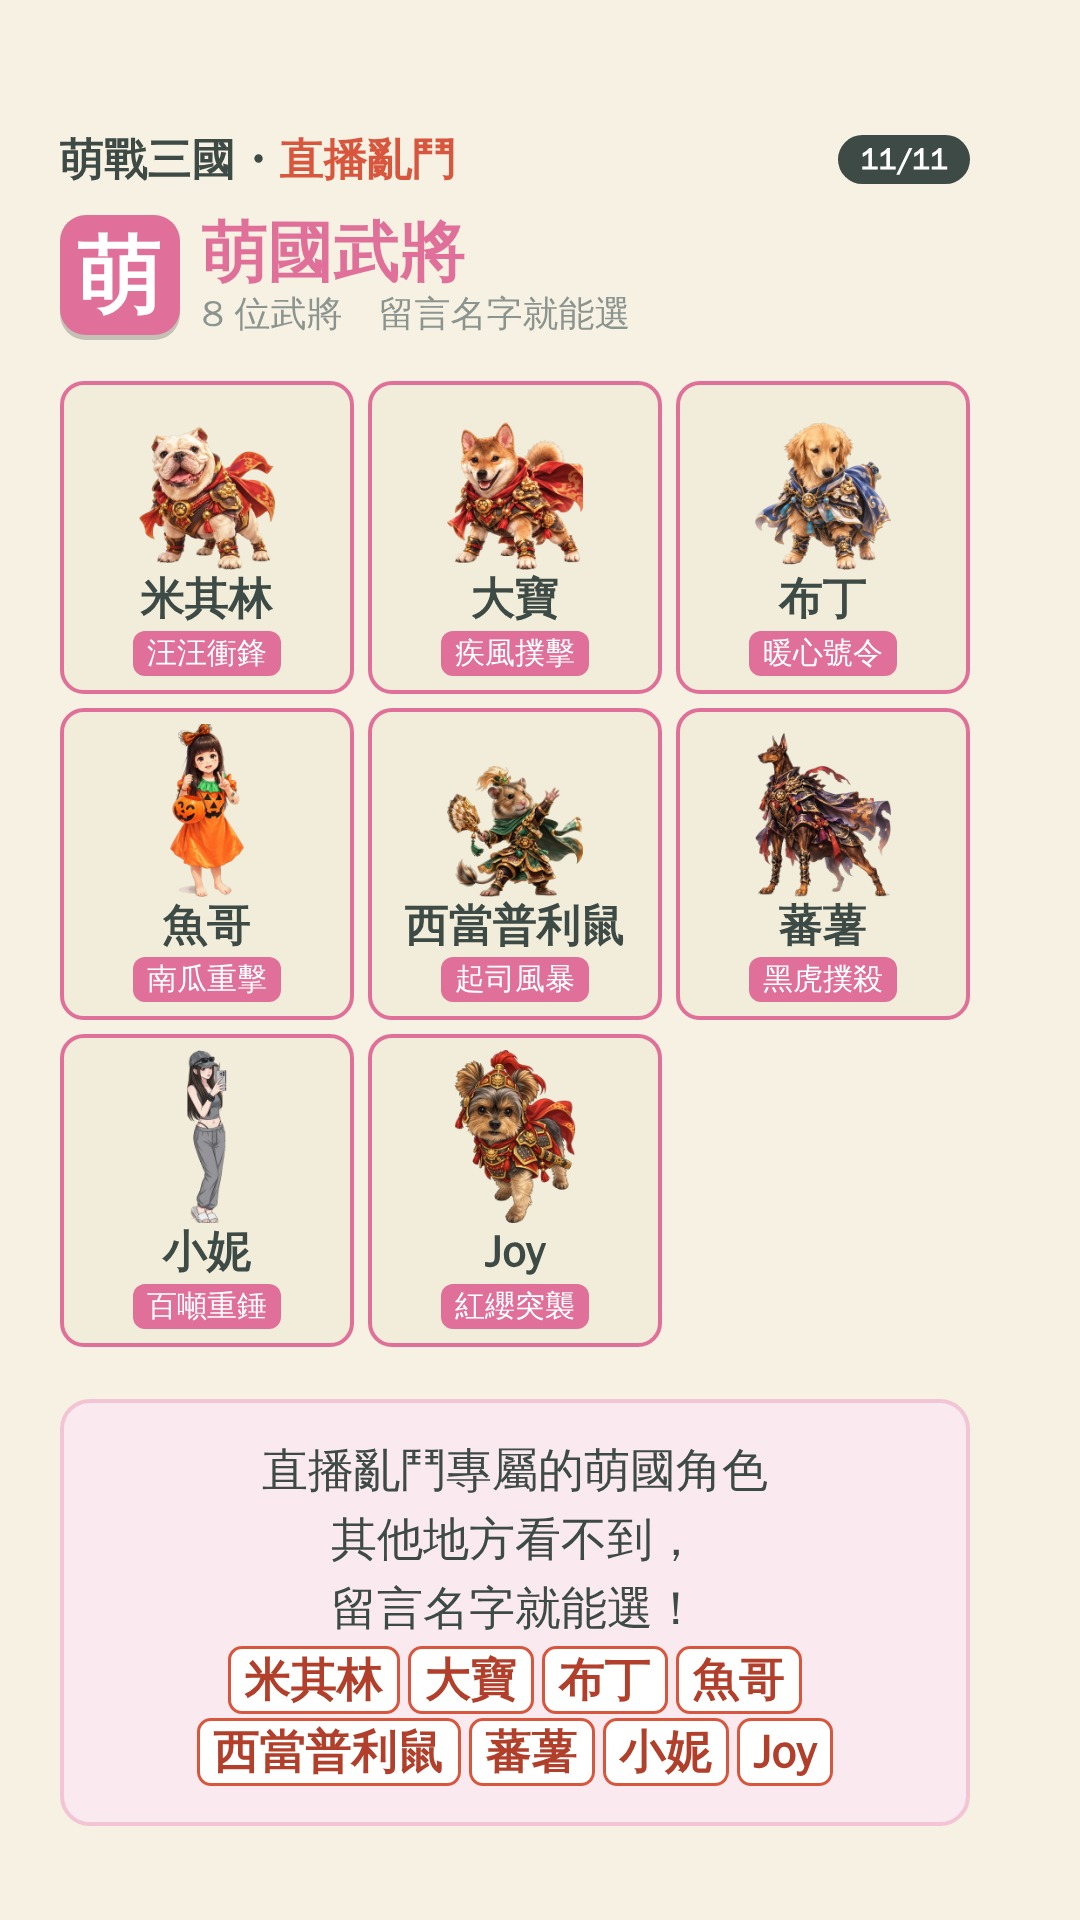
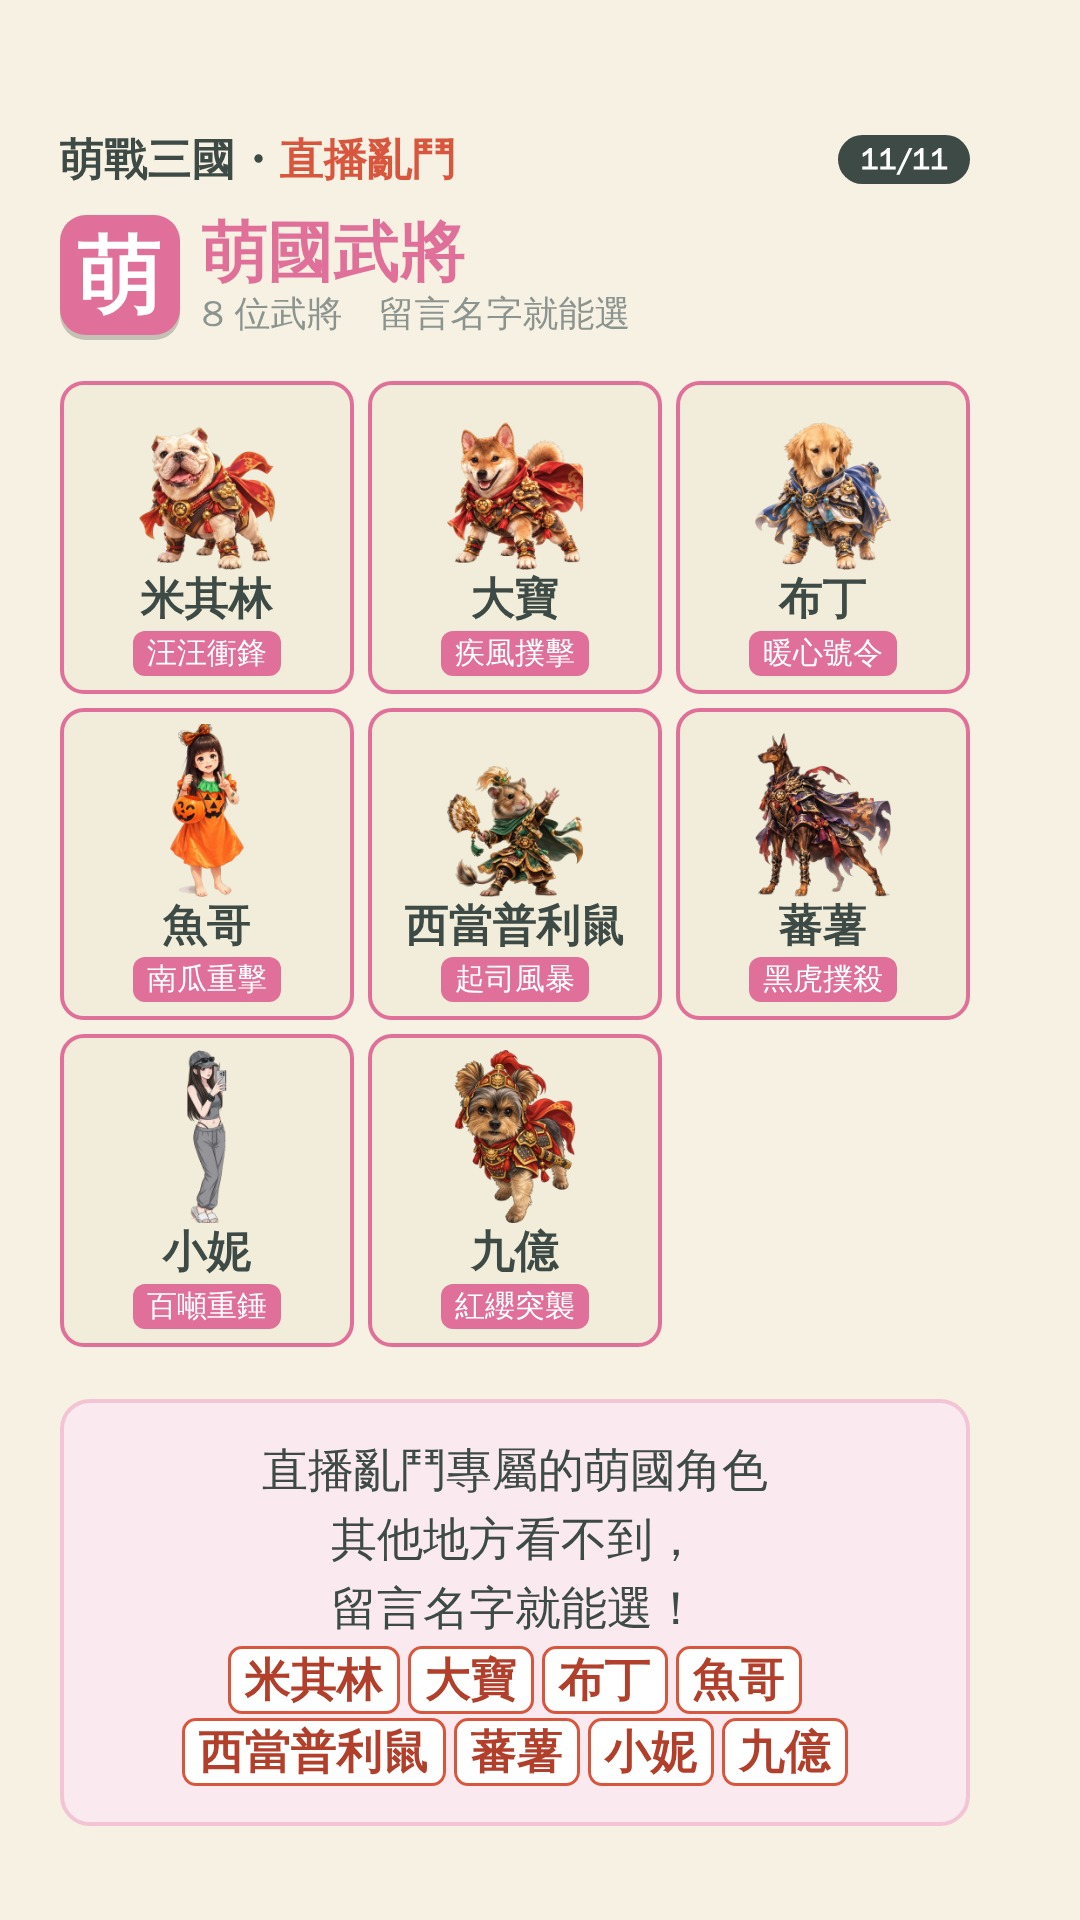
Joy 改名為九億（舊名 Joy 仍認）、重產名冊與玩法說明（版本 2026-11-15.38）
Claude-Session: https://claude.ai/code/session_01J1mi4tQsbQufTfnNbsrTar

Changed region(s): [[0.1528, 0.875, 0.7944, 0.9375], [0.4278, 0.625, 0.5194, 0.6875]]

diff --git a/data/extra-heroes.js b/data/extra-heroes.js
@@ -21,6 +21,6 @@ window.HEROES_DATA = window.HEROES_DATA.concat([
   { heroId: 'yam', displayName: '蕃薯', faction: 'Meng', troop: 'Vanguard', baseHp: 928, baseAtk: 52, baseArmor: 47, skillName: '黑虎撲殺', extra: true },
   // 小妮：萌國的長髮女孩猛將（灰色棒球帽＋墨鏡、灰色短背心與運動長褲、白拖鞋），武器是 100T 黑色大錘子。能力值取猛將中間檔（同米其林），技能「百噸重錘」，演出＝衝撞地裂。名字以外的設定（兵種、數值、技能名）是 Claude 先定的。
   { heroId: 'xiaoni', displayName: '小妮', faction: 'Meng', troop: 'Vanguard', baseHp: 928, baseAtk: 52, baseArmor: 47, skillName: '百噸重錘', extra: true },
-  // Joy：萌國的約克夏小狗遊俠（紅纓頭盔、金紅鎧甲、背著劍鞘）。能力值取遊俠平均（同大寶），技能「紅纓突襲」。名字以外的設定（兵種、數值、技能名）是 Claude 先定的。
-  { heroId: 'joy', displayName: 'Joy', faction: 'Meng', troop: 'Ranger', baseHp: 540, baseAtk: 72, baseArmor: 25, skillName: '紅纓突襲', extra: true },
+  // 九億（原名 Joy，2026-11-15 咖哩改名；heroId 仍是 joy）：萌國的約克夏小狗遊俠（紅纓頭盔、金紅鎧甲、背著劍鞘）。能力值取遊俠平均（同大寶），技能「紅纓突襲」。名字以外的設定（兵種、數值、技能名）是 Claude 先定的。
+  { heroId: 'joy', displayName: '九億', faction: 'Meng', troop: 'Ranger', baseHp: 540, baseAtk: 72, baseArmor: 25, skillName: '紅纓突襲', extra: true },
 ]);

diff --git a/js/config.js b/js/config.js
@@ -374,6 +374,7 @@ window.GAME_CONFIG = {
   // 觀眾留言這些字也算點名該武將。左邊是別名，右邊是武將英文 ID（照 data/heroes.js）。
   // 例如想讓簡體字「吕布」也有效： '吕布': 'lvbu'
   heroAliases: {
+    'Joy': 'joy',   // 九億的舊名字，觀眾打 Joy 也認
   },
 
   // ---------- 陣營 ----------

diff --git a/js/version.js b/js/version.js
@@ -1,3 +1,3 @@
 // 目前的版本號。每次有更新要上線，就跑 python3 tools/bump_version.py（會同時改這個檔和 version.json）。
 // 直播畫面會定時去讀 version.json，發現跟自己不一樣就自動更新（見 js/updater.js）。
-window.APP_VERSION = '2026-11-15.37';
+window.APP_VERSION = '2026-11-15.38';

diff --git a/CLAUDE.md b/CLAUDE.md
@@ -9,7 +9,7 @@
 
 ## 玩法規則（已定案）
 - 觀眾留言**武將名字**（例如「呂布」）→ 該武將帶著觀眾的名字上場。
-- 英文武將名（例如 Joy）**不分大小寫**：打 `joy`、`JOY` 都能上場、換角（2026-11-15 修正，原本只認 `Joy` 一種寫法）。留言進來先轉半形（`Ｊｏｙ`→`Joy`）並去掉零寬空白等看不見的字元再比對（`game.js` 的 `handleChat`）。
+- 英文武將名**不分大小寫**（例如舊名 `Joy`）：打 `joy`、`JOY` 都能上場、換角（2026-11-15 修正，原本只認 `Joy` 一種寫法）。留言進來先轉半形（`Ｊｏｙ`→`Joy`）並去掉零寬空白等看不見的字元再比對（`game.js` 的 `handleChat`）。
 - 觀眾**送禮** → 攻擊其他觀眾的武將。不同禮物對應：普攻／全場攻擊／技能／回血。
 - 留言「**@對方名字**」鎖定攻擊目標；留言「**解除鎖定**」恢復隨機。
   - 名字比對由嚴到寬（2026-11-13 咖哩反映「有時候沒辦法鎖定成功」後放寬，`js/game.js` 的 `findLockTarget`）：
@@ -167,7 +167,7 @@
   - 西當普利鼠（2026-11-14 咖哩第五隻）：寫實倉鼠穿綠金鎧甲、拿羽扇，`heroId: hamster`，謀士（技能演出＝法陣落雷），血 600／攻 68／防 28，技能「起司風暴」。名字以外的設定是 Claude 先定的。**第一版圖（橘棕色卡通老鼠）臉、耳朵、鼻子、米白嘴部、尾巴都是《湯姆貓與傑利鼠》的傑利鼠，違反「不可使用其他作品角色」，沒有用**；咖哩改成寫實倉鼠後才採用（來源由咖哩自行負責）。待機動畫＝吃起司蛋糕（`assets/heroes/hamster_cake.png`，Gemini 生成，**10 格**，每秒 4 格連播 2 輪）。**這張圖的格子排列是 3＋3＋4（不是整齊的 4x2）**，所以 `make_anim_sheet.py` 新增 `--row-counts 3,3,4`（每列各自平分寬度），這組用 `--faces right --row-counts 3,3,4 --match-height 301 --equalize area`（原圖面向右；`match-height` 是單張圖裡角色的高度，因為角色橫向很寬、單張圖被縮得比 396 矮，要先量）。**攻擊／技能＝換成大錘子跳起來往下重擊**（`hamster_attack.png`，8 格，第 6 格落地砸中；普攻 16 格/秒約 0.5 秒、技能 8 格/秒約 1 秒）。這張圖要跳到空中，所以 `make_anim_sheet.py` 新增手動指定選項：`--cx`（每格身體中心 x）、`--feet`（每格腳底 y）、`--lift`（跳離地面多少）、`--scale`（直接給縮放）、`--cut x:y0-y1`（兩格的尾巴／武器黏在一起時切一條縫）；連通塊改成歸到「同列身體中心最近」那格（揮出去的武器、白色弧線才不會被分到隔壁格）。指令：`--faces right --grid 4x2 --cut 768:512-1024 --cx 150,410,650,900,165,400,650,870 --feet 400,400,405,410,890,978,990,998 --lift 0,0,25,55,75,0,0,0 --scale 0.885`（這些數字是 Claude 看圖量的）。**謀士的技能不是衝撞型，所以 `render.js` 新增：非衝撞型技能有 `skill` 動畫的武將，算好打中時間，提早約 0.65 秒開始播，讓打擊那一格剛好對上打中。** **走路**（`hamster_walk.png`）：原圖是 4x4 共 16 格（有黑色格線，`--erase-grid 5`），但有的格有羽扇有的沒有，直接播羽扇會忽有忽無，所以只挑有羽扇的 7 格（1~6、8）循環，每秒 9 格。驗證：瀏覽器測過上場、待機、普攻、技能、走路都有播、無錯誤；⚠ 沒在直播軟體裡看過，名冊圖與玩法說明圖還沒重新產生。
   - 蕃薯（2026-11-15 咖哩第六隻）：杜賓犬穿黑金紫披風戰甲（原圖是「黑虎」角色設定圖，咖哩說名字叫蕃薯），`heroId: yam`，猛將（技能演出＝衝撞地裂），血 928／攻 52／防 47（同米其林），技能「黑虎撲殺」。名字以外的設定是 Claude 先定的。單張圖：原圖是多視角設定圖，只裁出右上那隻大的站姿（`x 380~992, y 0~722`），並用白色蓋掉右上角的「黑虎」名牌，再用 `tools/cutout_hero.py` 去背（單張圖裡的狗高 376px，之後做動畫條 `--match-height 376`）。圖面向左。**待機＝吃薯條**（`yam_idle.png`，8 格，每秒 3 格連播 2 輪）、**攻擊／技能＝撲出去咬**（`yam_attack.png`，8 格，第 5 格咬下去；普攻 13 格/秒、技能 11 格/秒）。兩組 Gemini 圖都有黑色格線：待機是整齊 4x2（`--grid 4x2 --erase-grid 4 --scale 0.99`），但狗的右半邊（披風、尾巴）被格子邊界切掉一截；攻擊是 3＋2＋3 的不整齊排列、格線位置不等分，所以 `make_anim_sheet.py` 的 `--cut` 新增橫線寫法 `h298:0-1200`（直線仍是 `300:0-298`），指令：`--faces left --row-counts 3,2,3 --flip 3,4,5,6 --cut 300:0-298,710:0-298,h298:0-1200,h598:0-1200,600:298-598,456:598-896,900:598-896 --scale 1.38`（Gemini 把第 3~6 格畫成面向右，用 `--flip` 單獨翻成面向左；兩組圖的來源解析度不同，所以 `--scale` 不同：0.99／1.38 是把站姿的狗縮成單張圖的 376px 高）。撲咬的空中格沒做跳離地面的手動對位（用身體底部對齊），遊戲的衝撞位移本來就會把整隻帶向目標。**走路**（`yam_walk.png`，12 格，每秒 10 格）：原圖是 4x3 共 12 格有黑格線（`--grid 4x3 --erase-grid 4 --faces left --flip 10,11,12 --scale 1.34`），Gemini 把第 10~12 格畫成面向右，用 `--flip` 單獨翻面；有幾格姿勢很接近（1 與 2、5 與 6），走起來會有一點「停頓」感。驗證：瀏覽器測過上場、待機、普攻、技能、走路動畫都有播、無錯誤；⚠ 沒在直播軟體裡看過，攻擊圖有一個很小的雜點。
   - **布丁的待機動畫＝吃布丁**（2026-11-15）：`pudding_idle.png`，8 格（舀一口→吃→再舀→只剩一點→舔嘴，盤子上的布丁一格比一格少），每秒 2.5 格連播 2 輪，回血 `eat` 也用同一組；Gemini 生圖是乾淨的 4x2（`--grid 4x2 --faces left --scale 0.85`）。**米其林、大寶、布丁的走路動畫**（2026-11-15）：`michelin_walk.png`／`dabao_walk.png`／`pudding_walk.png`，各 8 格、乾淨的 4x2、原圖面向左（`--grid 4x2 --faces left --scale 0.85`），每秒 9／10／9 格；這三隻在賽跑時跑起來不再是滑過去。**布丁的攻擊動畫**（2026-11-15，版本 .35）：`pudding_attack.png`，8 格（蓄力→躍起→前爪重拍→收回），Gemini 生圖是乾淨的 4x2、不用清格線，指令 `--grid 4x2 --faces left --scale 0.85 --lift 0,0,0,45,0,0,0,0`（第 4 格躍起用 `--lift` 離地）；普攻 12 格/秒、技能 9 格/秒，`hitFrame: 5`（第 5 格張嘴拍下去時打中）。
-  - Joy（2026-11-15 咖哩第八隻）：約克夏小狗穿紅纓頭盔、金紅鎧甲、背著劍鞘，`heroId: joy`，遊俠（技能演出＝光彈，專屬特效＝紅色爪痕＋大雞腿雨🍗），血 540／攻 72／防 25（同大寶），技能「紅纓突襲」。名字以外的設定是 Claude 先定的。圖是咖哩給的透明背景 PNG，但外面有一圈紅色半透明光暈，所以先把半透明部分（不透明度 ≤200）去掉、鋪白底再用 `tools/cutout_hero.py` 去背（單張圖裡的狗高 396px，之後做動畫條 `--match-height 396`）。動畫都做好了（Gemini 生圖，`make_anim_sheet.py`，三組都用 `--scale 1.15` 讓狗跟單張圖一樣大）：**待機＝啃大雞腿→啃成骨頭→骨頭啃光**（`joy_idle.png`，8 格，每秒 2.5 格連播 2 輪，回血 `eat` 也用同一組）、**攻擊／技能＝撲咬**（`joy_attack.png`，8 格，原圖面向右所以 `--faces right`，跳起來的格用 `--lift 0,0,8,20,35,0,0,0`，第 5 格咬下去 `hitFrame: 5`，普攻 12 格/秒、技能 9 格/秒）、**走路**（`joy_walk.png`）：咖哩給的原圖是 4x3，中間兩欄被一隻放大的狗擋住，只用左右兩欄乾淨的 6 格（`--grid 4x3 --pick 1,5,9,4,8,12 --erase-grid 4 --faces left`），每秒 8 格。驗證：瀏覽器測過上場、走路、待機都有播、無錯誤；⚠ 攻擊動畫沒親眼看過播放，沒在直播軟體裡看過。
+  - 九億（原名 Joy，**2026-11-15 咖哩改名成「九億」**，`heroId` 仍是 `joy`、檔名不變；觀眾打舊名字 Joy 也認，`heroAliases`）（2026-11-15 咖哩第八隻）：約克夏小狗穿紅纓頭盔、金紅鎧甲、背著劍鞘，`heroId: joy`，遊俠（技能演出＝光彈，專屬特效＝紅色爪痕＋大雞腿雨🍗），血 540／攻 72／防 25（同大寶），技能「紅纓突襲」。名字以外的設定是 Claude 先定的。圖是咖哩給的透明背景 PNG，但外面有一圈紅色半透明光暈，所以先把半透明部分（不透明度 ≤200）去掉、鋪白底再用 `tools/cutout_hero.py` 去背（單張圖裡的狗高 396px，之後做動畫條 `--match-height 396`）。動畫都做好了（Gemini 生圖，`make_anim_sheet.py`，三組都用 `--scale 1.15` 讓狗跟單張圖一樣大）：**待機＝啃大雞腿→啃成骨頭→骨頭啃光**（`joy_idle.png`，8 格，每秒 2.5 格連播 2 輪，回血 `eat` 也用同一組）、**攻擊／技能＝撲咬**（`joy_attack.png`，8 格，原圖面向右所以 `--faces right`，跳起來的格用 `--lift 0,0,8,20,35,0,0,0`，第 5 格咬下去 `hitFrame: 5`，普攻 12 格/秒、技能 9 格/秒）、**走路**（`joy_walk.png`）：咖哩給的原圖是 4x3，中間兩欄被一隻放大的狗擋住，只用左右兩欄乾淨的 6 格（`--grid 4x3 --pick 1,5,9,4,8,12 --erase-grid 4 --faces left`），每秒 8 格。驗證：瀏覽器測過上場、走路、待機都有播、無錯誤；⚠ 攻擊動畫沒親眼看過播放，沒在直播軟體裡看過。
   - **米其林、大寶的專屬攻擊動畫**（2026-11-14）：米其林＝低頭衝撞頂飛（`michelin_attack.png`，8 格，第 5 格撞擊；普攻 13 格/秒、技能 11 格/秒）；大寶＝蓄力後嘴裡射出金色光球（`dabao_attack.png`，7 格，第 4 格光球射出；普攻 10 格/秒、技能 9 格/秒）。普攻、技能共用同一組。兩組都是 Gemini 生成，**排版不整齊**：米其林是 2 欄 4 列有黑格線（`--grid 2x4 --erase-grid 5`），而且 Gemini 把第 3~7 格畫成面向右，所以 `make_anim_sheet.py` 新增 `--flip 3,4,5,6,7`（個別幾格單獨左右翻面）；大寶是 3x3 共 9 格，其中第 5 格只有光球沒有狗、第 7 格狗被切掉一半，所以新增 `--pick 1,2,3,4,6,8,9`（只用指定的格，順序自訂），並用 `--cx/--feet --scale 1.29` 手動對位（光球和狗連在一起，自動判斷會偏）。大寶的光球是畫在動畫裡的，技能同時還有遊戲自己的光彈特效，兩個會同時出現。驗證：瀏覽器測過兩隻的普攻、技能動畫都有播、無錯誤；⚠ 沒在直播軟體裡看過。
   - **小妮的攻擊改慢、錘子換金色**（2026-11-15 咖哩要求；先試過程式把黑錘改紅，後來咖哩給了 Gemini 重生的金色大錘新圖就整組換掉）：新圖第 6、7 格的錘頭和身體疊在一起（連成一塊，工具切不開），所以第 7 格（砸地）用顏色分開處理後再拼回去；第 7 格左邊的塵土有一條垂直切痕；攻擊 3.5 格/秒、技能 2.8 格/秒（咖哩再嫌快，原本 5／4），整段約 2.3／2.9 秒，砸中約 1.9／2.3 秒。**新機制 `hitFrame`**：`heroAnims.<id>.attack／skill` 可寫 `hitFrame: 7`（第幾格打中），衝撞時間與傷害數字就對在那一格（沒寫的武將仍是固定 0.31 秒）。驗證：瀏覽器測過普攻約 1.3 秒時傷害數字出現、錘子剛好砸在地上；⚠ 錘頭上色是程式按位置挑的，個別格子頭髮或手邊有零星紅點。
   - 觀眾第一次上場是「留言裡含武將名就算」，所以聊天提到「米其林餐廳」之類的詞也會讓還沒上場的人帶著米其林上場。
